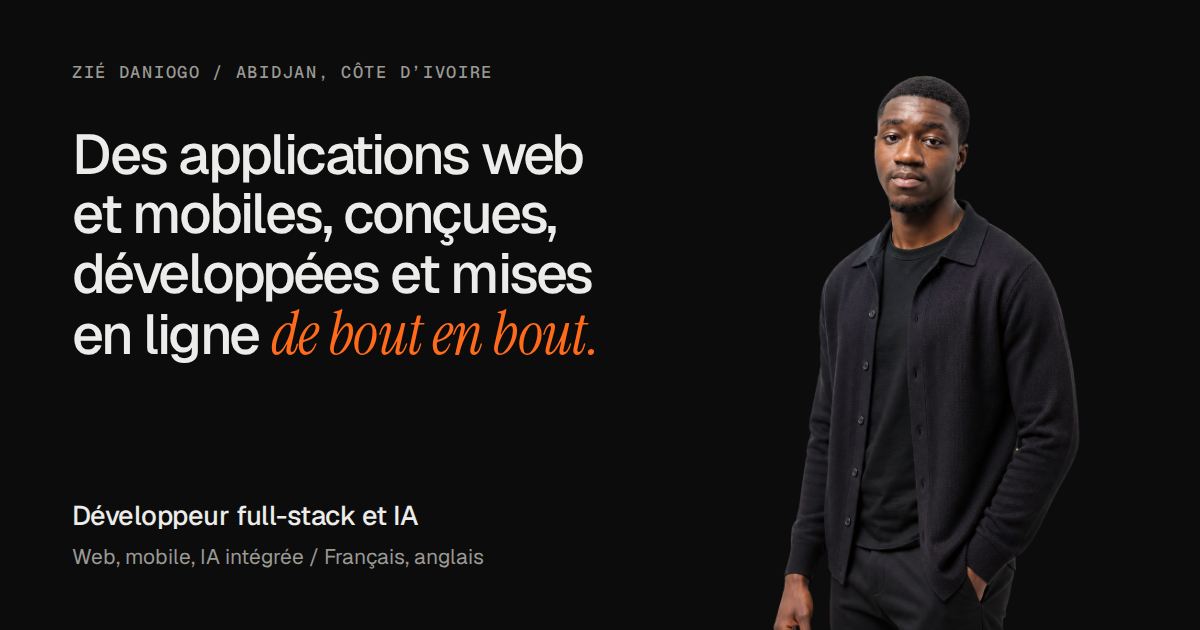
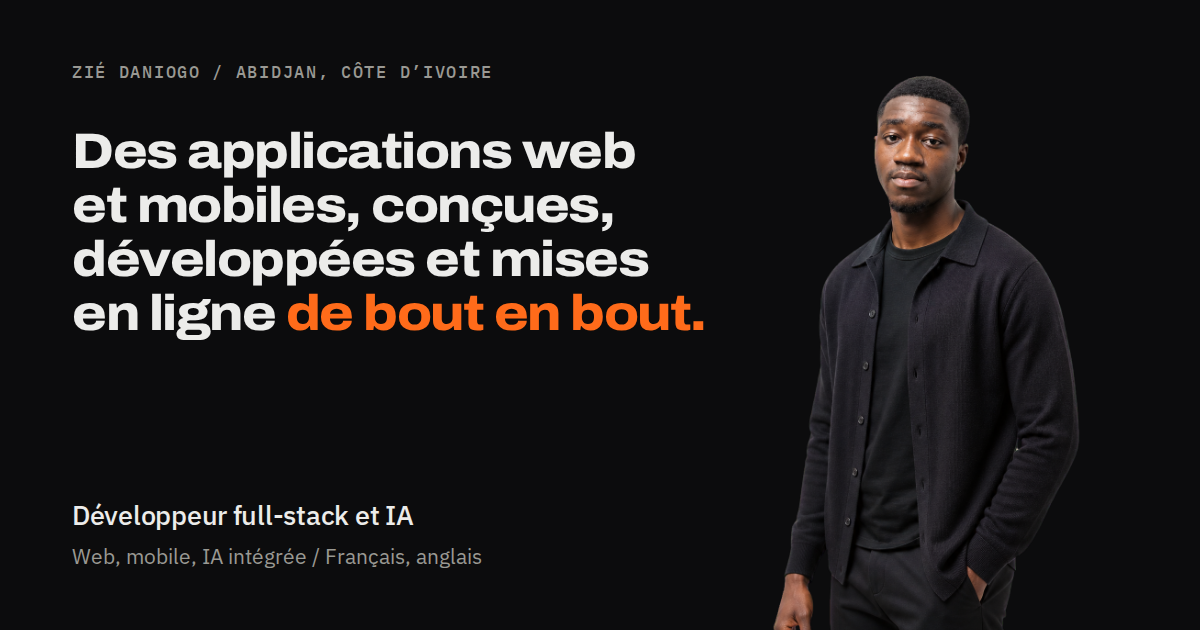
Typographie « Ingénieur » : Archivo élargie pour les titres, IBM Plex Sans et Mono
Titres en Archivo 800 (wdth 112 %, -0.03em), texte courant en IBM Plex Sans,
étiquettes en IBM Plex Mono 500. Le mot mis en valeur passe par la couleur
d'accent, sans italique : Geist et Instrument Serif disparaissent du site, de la
page 404 et des images de partage (script export-og repassé aux nouvelles
polices, images régénérées). Échelle des titres resserrée pour la police large ;
sur téléphone, l'étiquette Livraison se range à gauche de sa ligne.

diff --git a/app/globals.css b/app/globals.css
@@ -22,9 +22,12 @@
   --danger: #b42318;
   --hero-bg: #e6e3dc;
 
-  --font-sans: var(--font-geist), ui-sans-serif, system-ui, sans-serif;
-  --font-mono: var(--font-geist-mono), ui-monospace, "SFMono-Regular", monospace;
-  --font-serif: var(--font-instrument), Georgia, serif;
+  --font-display: var(--font-archivo), ui-sans-serif, system-ui, sans-serif;
+  --font-sans: var(--font-plex-sans), ui-sans-serif, system-ui, sans-serif;
+  --font-mono: var(--font-plex-mono), ui-monospace, "SFMono-Regular", monospace;
+  /* Titres : Archivo élargie, serrée. */
+  --display-stretch: 112%;
+  --display-tracking: -0.03em;
 
   --gutter: clamp(16px, 4vw, 56px);
   /* Marge réelle du contenu : la gouttière, ou plus si l’écran dépasse la largeur maximale. */
@@ -182,7 +185,7 @@ main:focus {
 .mono {
   font-family: var(--font-mono);
   font-size: 0.72rem;
-  font-weight: 400;
+  font-weight: 500;
   letter-spacing: 0.06em;
   line-height: 1.4;
   text-transform: uppercase;
@@ -250,23 +253,13 @@ main:focus {
   margin-block: -0.14em -0.1em;
 }
 
-.word-mask:has(.word-em) {
-  padding-right: 0.12em;
-  margin-right: -0.12em;
-}
-
 .word {
   display: inline-block;
 }
 
-/* Le mot mis en valeur : italique à empattements, dans l’encre. L’accent n’y est que sur le hero. */
+/* Le mot mis en valeur : même police, même graisse, dans la couleur d’accent. */
 .word-em {
-  font-family: var(--font-serif);
-  font-size: 1.06em;
-  font-style: italic;
-  font-weight: 400;
-  letter-spacing: -0.01em;
-  color: var(--em-color, currentColor);
+  color: var(--em-color, var(--accent-text));
 }
 
 /* ==========================================================================
@@ -549,8 +542,10 @@ main:focus {
 
 .wordmark-name {
   font-size: 1rem;
-  font-weight: 600;
-  letter-spacing: -0.03em;
+  font-family: var(--font-display);
+  font-stretch: var(--display-stretch);
+  font-weight: 800;
+  letter-spacing: -0.02em;
 }
 
 .wordmark-role {
@@ -673,9 +668,11 @@ main:focus {
   align-items: baseline;
   gap: 16px;
   padding: 14px 0;
-  font-size: clamp(2.3rem, 11vw, 3.6rem);
-  font-weight: 500;
-  letter-spacing: -0.045em;
+  font-size: clamp(2rem, 9.5vw, 3.2rem);
+  font-family: var(--font-display);
+  font-stretch: var(--display-stretch);
+  font-weight: 800;
+  letter-spacing: var(--display-tracking);
   line-height: 1.05;
 }
 
@@ -773,6 +770,7 @@ main:focus {
   color: var(--fg-muted);
   font-family: var(--font-mono);
   font-size: 0.72rem;
+  font-weight: 500;
   letter-spacing: 0.06em;
   text-transform: uppercase;
 }
@@ -783,10 +781,12 @@ main:focus {
 
 .section-title {
   max-width: 16ch;
-  font-size: clamp(2.3rem, min(1.1rem + 3.8vw, 1rem + 6.4svh), 5rem);
-  font-weight: 500;
-  line-height: 1.02;
-  letter-spacing: -0.045em;
+  font-size: clamp(2rem, min(1rem + 3.3vw, 0.9rem + 5.6svh), 4.4rem);
+  font-family: var(--font-display);
+  font-stretch: var(--display-stretch);
+  font-weight: 800;
+  line-height: 1.04;
+  letter-spacing: var(--display-tracking);
   text-wrap: balance;
 }
 
@@ -960,7 +960,9 @@ main:focus {
 
 .wordmark-name {
   font-size: 1rem;
-  font-weight: 500;
+  font-family: var(--font-display);
+  font-stretch: var(--display-stretch);
+  font-weight: 800;
   letter-spacing: -0.02em;
 }
 
@@ -1023,10 +1025,12 @@ main:focus {
 .hero-title {
   --em-color: var(--accent-text);
   max-width: 24ch;
-  font-size: clamp(1.6rem, 1.05rem + 2.4vw, 2.3rem);
-  font-weight: 500;
-  line-height: 1.14;
-  letter-spacing: -0.035em;
+  font-size: clamp(1.45rem, 0.95rem + 2.2vw, 2.1rem);
+  font-family: var(--font-display);
+  font-stretch: var(--display-stretch);
+  font-weight: 800;
+  line-height: 1.12;
+  letter-spacing: var(--display-tracking);
   text-wrap: balance;
 }
 
@@ -1092,8 +1096,10 @@ main:focus {
 
 .hero-banner-text {
   fill: var(--fg);
-  font-weight: 500;
-  letter-spacing: -0.055em;
+  font-family: var(--font-display);
+  font-stretch: var(--display-stretch);
+  font-weight: 800;
+  letter-spacing: -0.04em;
   text-rendering: geometricPrecision;
   user-select: none;
 }
@@ -1199,7 +1205,7 @@ main:focus {
   .hero-title {
     grid-area: title;
     max-width: min(25ch, calc(50vw - var(--edge) - var(--portrait-h) * 0.19));
-    font-size: clamp(1.45rem, 0.55rem + 1.5vw, 2.4rem);
+    font-size: clamp(1.3rem, 0.5rem + 1.35vw, 2.15rem);
   }
 
   .hero-role {
@@ -1362,6 +1368,11 @@ main:focus {
     font-size: 0.84rem;
   }
 
+  /* Sur téléphone, l’étiquette se range à gauche de la ligne : elle ne touche jamais le repère « Seul ». */
+  .tl-delivery span {
+    transform: translateX(-100%);
+  }
+
   .tl-owner {
     font-size: 0.68rem;
   }
@@ -1412,10 +1423,12 @@ main:focus {
 }
 
 .not-found h1 {
-  font-size: clamp(2.6rem, 1.2rem + 5vw, 6rem);
-  font-weight: 500;
-  line-height: 1;
-  letter-spacing: -0.05em;
+  font-size: clamp(2.3rem, 1.05rem + 4.4vw, 5.2rem);
+  font-family: var(--font-display);
+  font-stretch: var(--display-stretch);
+  font-weight: 800;
+  line-height: 1.02;
+  letter-spacing: var(--display-tracking);
 }
 
 .not-found-en {

diff --git a/app/sections.css b/app/sections.css
@@ -36,7 +36,7 @@
 .build-head .section-label {
   justify-content: center;
   margin: 0;
-  font-weight: 400;
+  font-weight: 500;
 }
 
 /* Une scène se lit dans l’axe : l’image au centre, sa phrase centrée dessous, comme une légende. */
@@ -52,10 +52,12 @@
 /* Une phrase entière par scène : trois ou quatre lignes équilibrées. */
 .build-text {
   max-width: 36ch;
-  font-size: clamp(1.5rem, min(0.7rem + 1.7vw, 0.7rem + 3.2svh), 2.5rem);
-  font-weight: 500;
-  line-height: 1.12;
-  letter-spacing: -0.035em;
+  font-size: clamp(1.3rem, min(0.6rem + 1.5vw, 0.6rem + 2.8svh), 2.2rem);
+  font-family: var(--font-display);
+  font-stretch: var(--display-stretch);
+  font-weight: 800;
+  line-height: 1.14;
+  letter-spacing: var(--display-tracking);
   text-wrap: balance;
 }
 
@@ -153,11 +155,13 @@
 
 .method-title {
   /* Une phrase par ligne sur grand écran : la coupure est dans le texte. */
-  max-width: 26ch;
-  font-size: clamp(2.2rem, min(1rem + 3vw, 1rem + 5.4svh), 4.2rem);
-  font-weight: 500;
-  line-height: 1.03;
-  letter-spacing: -0.045em;
+  max-width: 31ch;
+  font-size: clamp(1.9rem, min(0.9rem + 2.6vw, 0.9rem + 4.7svh), 3.7rem);
+  font-family: var(--font-display);
+  font-stretch: var(--display-stretch);
+  font-weight: 800;
+  line-height: 1.05;
+  letter-spacing: var(--display-tracking);
   text-wrap: balance;
 }
 
@@ -308,10 +312,12 @@
 
 .profile-statement {
   margin-top: 28px;
-  font-size: clamp(2.2rem, min(0.6rem + 4.6vw, 1rem + 7svh), 5.4rem);
-  font-weight: 500;
-  line-height: 1.02;
-  letter-spacing: -0.048em;
+  font-size: clamp(1.95rem, min(0.55rem + 4vw, 0.9rem + 6.1svh), 4.7rem);
+  font-family: var(--font-display);
+  font-stretch: var(--display-stretch);
+  font-weight: 800;
+  line-height: 1.04;
+  letter-spacing: var(--display-tracking);
   text-wrap: balance;
 }
 
@@ -355,11 +361,13 @@
 }
 
 .figures strong {
-  font-size: clamp(2.6rem, 1.5rem + 2.6vw, 4.2rem);
-  font-weight: 500;
+  font-size: clamp(2.3rem, 1.35rem + 2.3vw, 3.7rem);
+  font-family: var(--font-display);
+  font-stretch: var(--display-stretch);
+  font-weight: 800;
   font-variant-numeric: tabular-nums;
   line-height: 1;
-  letter-spacing: -0.048em;
+  letter-spacing: var(--display-tracking);
 }
 
 .figures li > span {
@@ -429,10 +437,12 @@
 /* Deux lignes : la question, puis l’invitation. Le corps laisse la question tenir sur sa ligne. */
 .contact-title {
   --em-color: var(--accent-text);
-  font-size: clamp(2.4rem, 0.8rem + 4.2vw, 5.6rem);
-  font-weight: 500;
-  line-height: 1;
-  letter-spacing: -0.05em;
+  font-size: clamp(2.1rem, 0.7rem + 3.7vw, 4.9rem);
+  font-family: var(--font-display);
+  font-stretch: var(--display-stretch);
+  font-weight: 800;
+  line-height: 1.02;
+  letter-spacing: var(--display-tracking);
   text-wrap: balance;
 }
 

diff --git a/app/[lang]/layout.tsx b/app/[lang]/layout.tsx
@@ -1,30 +1,32 @@
 import type { Metadata, Viewport } from "next";
-import { Geist, Geist_Mono, Instrument_Serif } from "next/font/google";
+import { Archivo, IBM_Plex_Mono, IBM_Plex_Sans } from "next/font/google";
 import { notFound } from "next/navigation";
 import "../globals.css";
 import "../sections.css";
 import { isLocale, locales, person, siteUrl } from "../data/site";
 
-const sans = Geist({
+// Titres : Archivo élargie (axe wdth), en 800. Le mot mis en valeur passe par la couleur d’accent.
+const display = Archivo({
   subsets: ["latin"],
-  variable: "--font-geist",
+  axes: ["wdth"],
+  variable: "--font-archivo",
   display: "swap",
 });
 
-const mono = Geist_Mono({
+// Texte courant.
+const sans = IBM_Plex_Sans({
   subsets: ["latin"],
-  variable: "--font-geist-mono",
+  variable: "--font-plex-sans",
+  display: "swap",
+});
+
+// Étiquettes et détails.
+const mono = IBM_Plex_Mono({
+  subsets: ["latin"],
+  weight: "500",
+  variable: "--font-plex-mono",
   display: "swap",
   preload: false,
-});
-
-// Police de titrage : droite pour les titres, italique pour le mot mis en valeur.
-const serif = Instrument_Serif({
-  subsets: ["latin"],
-  weight: "400",
-  style: ["normal", "italic"],
-  variable: "--font-instrument",
-  display: "swap",
 });
 
 // Seules les deux langues existent : toute autre valeur donne une page 404.
@@ -71,7 +73,7 @@ export default async function RootLayout({
   if (!isLocale(lang)) notFound();
 
   return (
-    <html lang={lang} className={`${sans.variable} ${mono.variable} ${serif.variable}`} suppressHydrationWarning>
+    <html lang={lang} className={`${display.variable} ${sans.variable} ${mono.variable}`} suppressHydrationWarning>
       <head>
         <script dangerouslySetInnerHTML={{ __html: themeScript }} />
       </head>

diff --git a/app/global-not-found.tsx b/app/global-not-found.tsx
@@ -1,10 +1,11 @@
 import type { Metadata } from "next";
-import { Geist, Geist_Mono } from "next/font/google";
+import { Archivo, IBM_Plex_Mono, IBM_Plex_Sans } from "next/font/google";
 import Link from "next/link";
 import "./globals.css";
 
-const sans = Geist({ subsets: ["latin"], variable: "--font-geist", display: "swap" });
-const mono = Geist_Mono({ subsets: ["latin"], variable: "--font-geist-mono", display: "swap", preload: false });
+const display = Archivo({ subsets: ["latin"], axes: ["wdth"], variable: "--font-archivo", display: "swap" });
+const sans = IBM_Plex_Sans({ subsets: ["latin"], variable: "--font-plex-sans", display: "swap" });
+const mono = IBM_Plex_Mono({ subsets: ["latin"], weight: "500", variable: "--font-plex-mono", display: "swap", preload: false });
 
 export const metadata: Metadata = {
   title: "Page introuvable | Zié Daniogo",
@@ -14,7 +15,7 @@ export const metadata: Metadata = {
 // Page 404 commune aux deux langues : le site n’a pas de mise en page racine hors de [lang].
 export default function GlobalNotFound() {
   return (
-    <html lang="fr" className={`${sans.variable} ${mono.variable}`}>
+    <html lang="fr" className={`${display.variable} ${sans.variable} ${mono.variable}`}>
       <body>
         <main className="not-found shell">
           <p className="mono">404</p>
